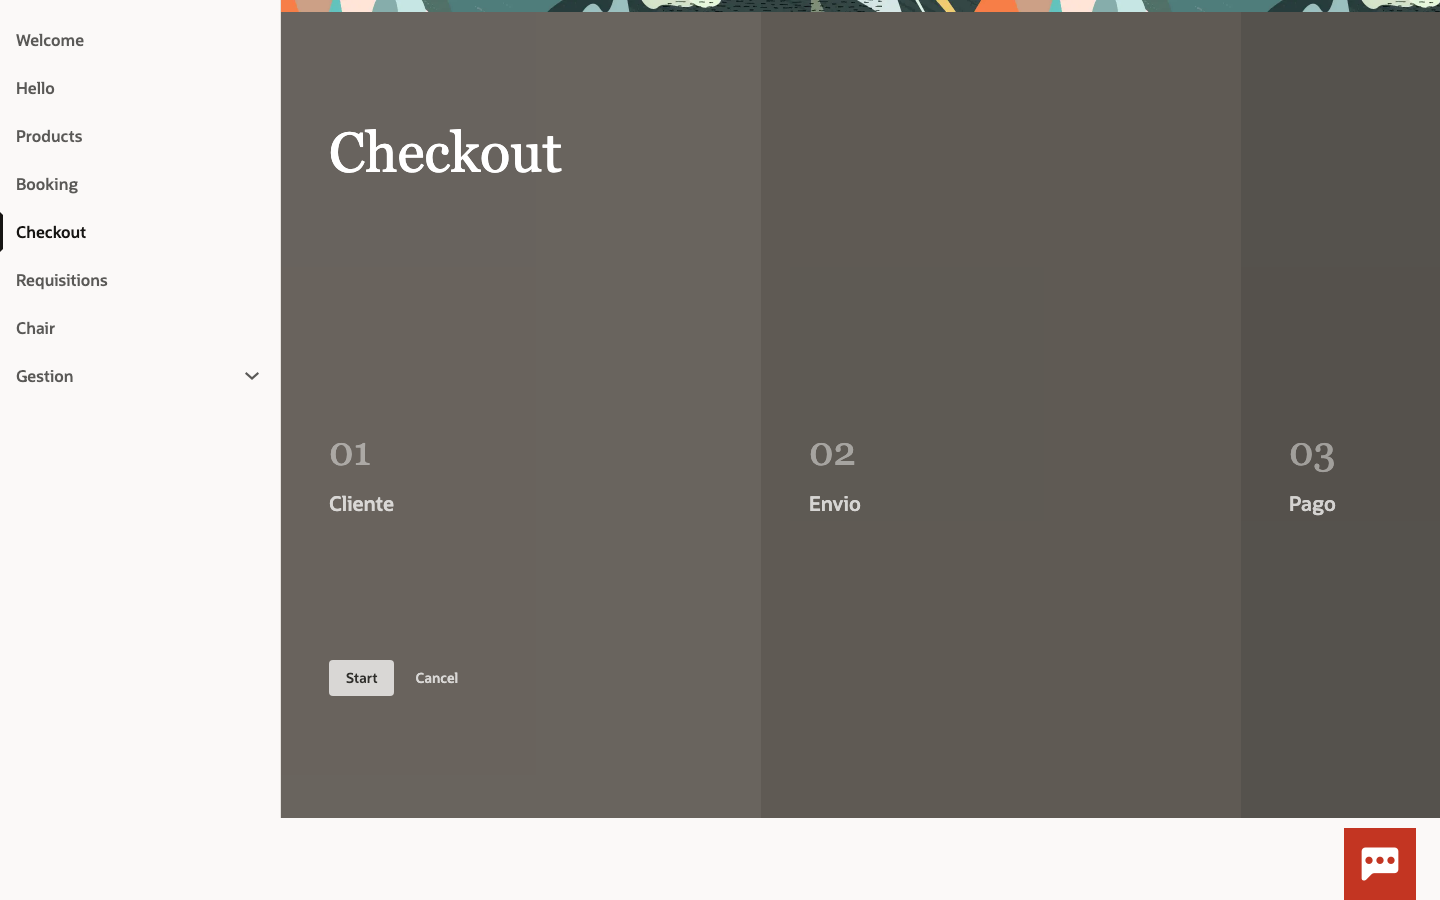
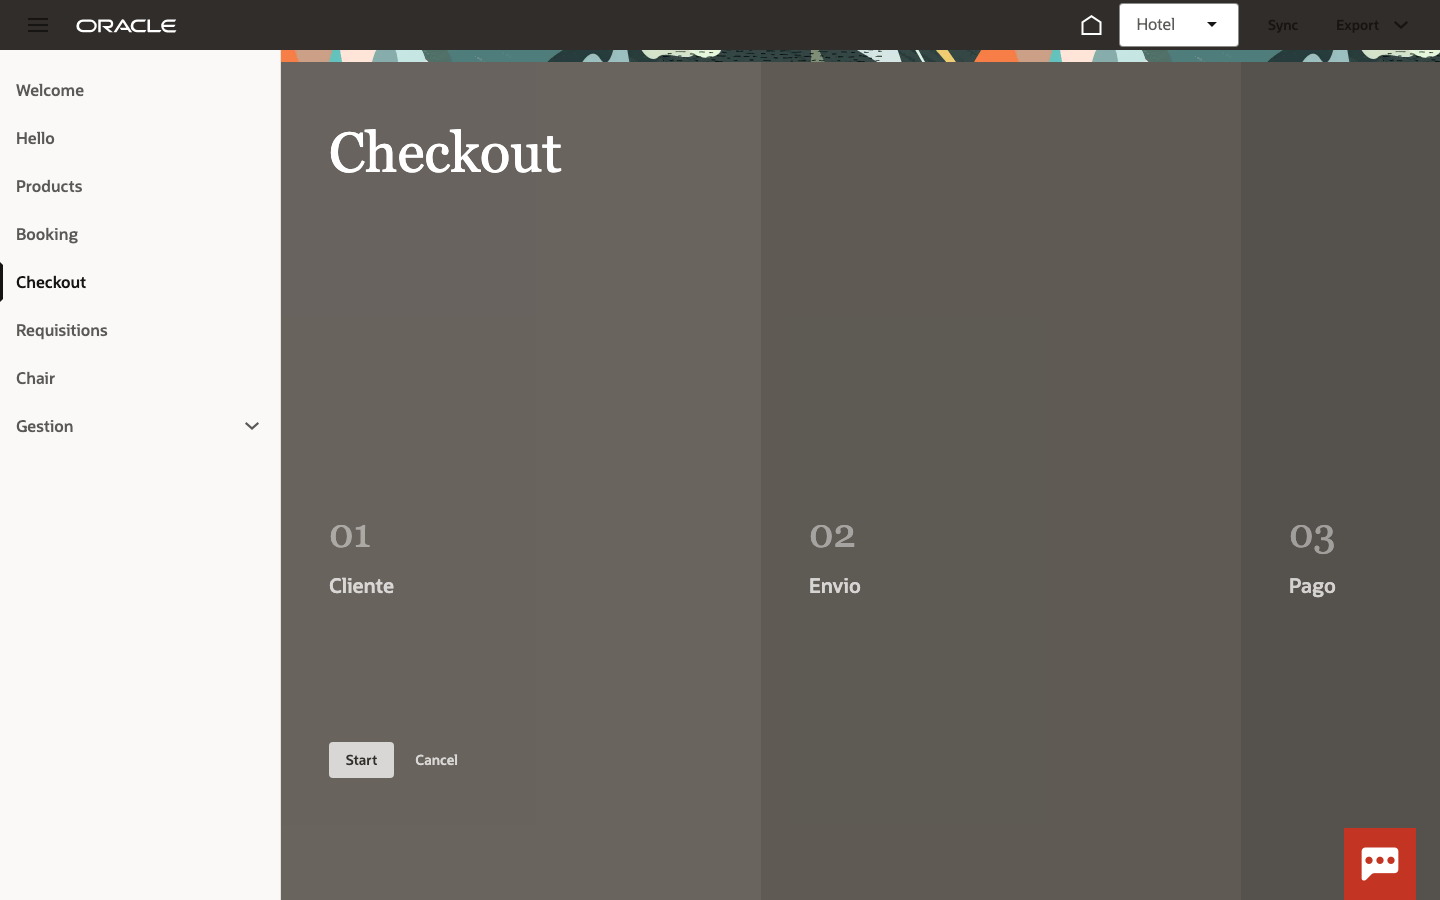
fix(vb): quitar el link 'Parent page' que estampa el foldout por defecto
oj-sp-foldout-layout monta internamente un oj-sp-header-navigation cuya banda
visible era solo el link goToParent — apagado con
display-options.go-to-parent=false (misma opción que ya lleva el header
genérico). Barrido de las 9 rutas: ninguna muestra 'Parent page'.

diff --git a/.dev/vb/mateu-vb/webApps/vbredwoodapp/flows/main/pages/main-start-page.html b/.dev/vb/mateu-vb/webApps/vbredwoodapp/flows/main/pages/main-start-page.html
@@ -36,7 +36,8 @@
      lógica responsive (plegado + scroll + dots); dentro de un flex-item con min-width:auto
      se desborda y cree que todo cabe -->
 <oj-bind-if test="[[ !!$application.variables.mateuFoldout ]]">
-      <oj-sp-foldout-layout id="mateuFoldoutEl">
+      <oj-sp-foldout-layout id="mateuFoldoutEl"
+        display-options.go-to-parent="false">
         <oj-sp-foldout-panel panel-title="[[ $application.variables.mateuHostTitle ]]">
           <oj-bind-for-each data="[[ $application.variables.mateuFoldout.overview.texts ]]">
             <template>

diff --git a/.dev/vb/DESIGN-NOTES.md b/.dev/vb/DESIGN-NOTES.md
@@ -480,6 +480,15 @@ En `/hello` lo que aparece sobre el header de página NO es un hueco: es el `@Ba
 wire (oj-sp-messages-banner del shell, bajo el header global — su animación de montaje tapa
 el header global unos ms, transitorio).
 
+**GOTCHA "Parent page" (2026-07-25)**: los componentes oj-sp con header estampan por defecto
+el link goToParent ("Parent page"). Hay que apagarlo explícitamente en CADA uno:
+`display-options.go-to-parent="false"` en el header genérico (`oj-sp-header-general-overview`)
+Y TAMBIÉN en `oj-sp-foldout-layout`, que estampa internamente un `oj-sp-header-navigation`
+cuya única banda visible era ese link (su API no está en el loader del CDN — se lee en runtime
+via `customElements.get('oj-sp-foldout-layout').metadata.properties`). El foldout NO cuenta
+como "template con header integrado" (su header interno es solo navegación, sin título) →
+mantiene el header genérico encima.
+
 Evidencia: `shots/fase4.png` (products), `hdr-person.png`, `hdr-island.png`, `hdr-hello.png`,
 `hdr-booking.png`, `hdr-chair.png`, `gap-welcome.png`, `gap-hello.png`, `gap-checkout.png`.
 
